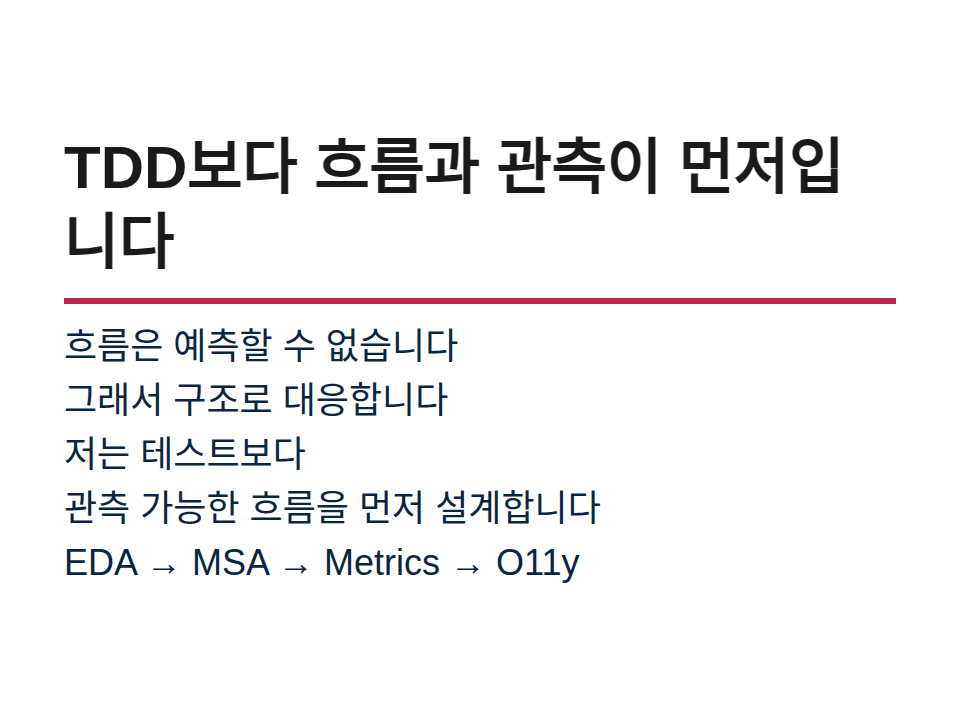
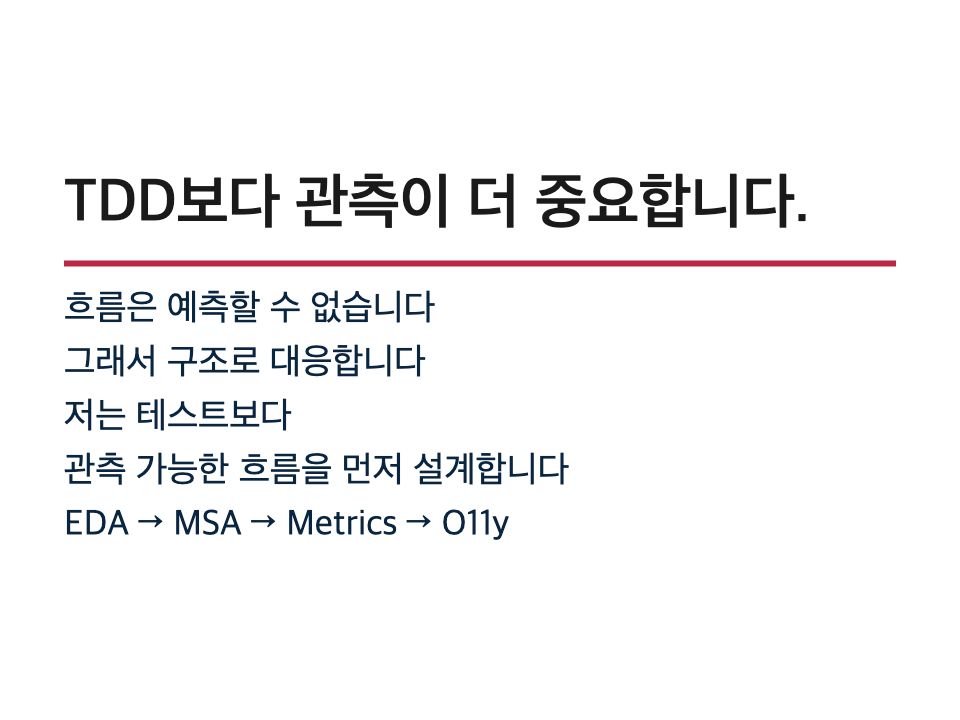
표지 수정

Changed region(s): [[0.0625, 0.1833, 0.9375, 0.825]]

diff --git a/marp/covers/tdd-is-not-my-priority.md b/marp/covers/tdd-is-not-my-priority.md
@@ -3,7 +3,7 @@ marp: true
 size: 4:3
 ---
 
-# TDD보다 흐름과 관측이 먼저입니다
+# TDD보다 관측이 더 중요합니다.
 
 흐름은 예측할 수 없습니다  
 그래서 구조로 대응합니다  
